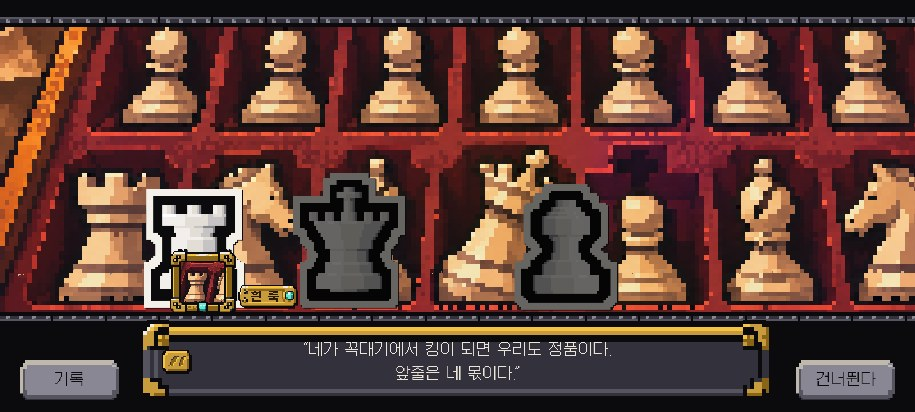
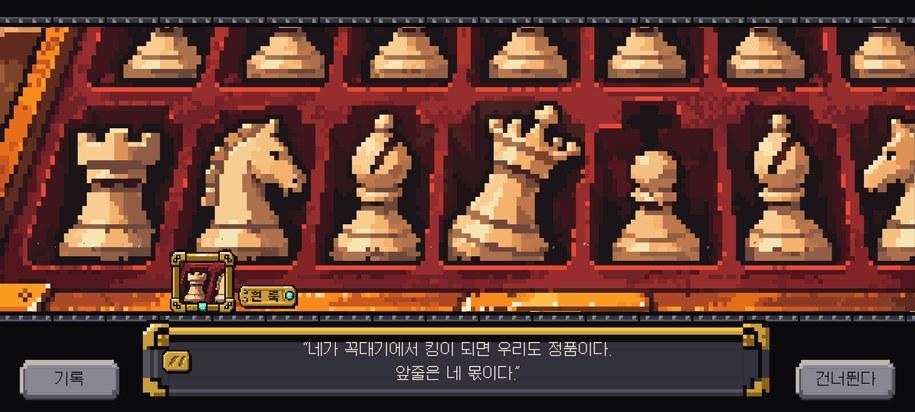
Stop VN board-sprite actors over illustrations (D-580)
D-572(일러스트에 판 도트 말을 붙이지 않는다)에 맞춰 컷신 VN 층이 그림 위에 세우던 72칸 판 도트 배우를 모두 걷었다.
배우가 서던 컷: 상자 안의 다툼(흰 퀸 · 아홉째 폰 · 흰 룩), 반장 격파 여섯, 도금왕 2단계, 용해 주조 · 뻗지 않은 손,
진엔딩 원했다 · 멈춘 공장 · 하얀 땅, 동료 장면(종이왕). 그림 안 인물을 한 번 더 세우던 문제가 사라진다.
- VN_DEFAULT.noCast = true, 컷별 noCast 표시 정리, data/vn.castOn(slug, art) — 그림이 있으면 늘 false.
- opening.playCuts는 castOn일 때만 배우를 연다(끝 정적 · 먹 무대 D-579 · 자리 그림은 막음). 지금 연 컷은 없다.
- 명패(이름 + 얼굴) · 대사 · 샷 · 효과 · 입자 · 등잔 · 켄 번스는 그대로 — 대사 줄은 모두 명패가 서서 화자가 보인다.
- 시험: 모든 컷 생성기의 그림 컷에서 배우가 서지 않음을 확인. 디버그 훅 companionCut 추가.
- 전/후 대조 시트 production/qa/evidence/2026-11-18-d580-cast-off-sheet.jpg, 그래픽 정본 vn-actor 사진 갈음, DECISIONS D-580.

Claude-Session: https://claude.ai/code/session_011jC4ZCDKW43H5FzLWnYVpe

diff --git a/src/slice/main.ts b/src/slice/main.ts
@@ -5550,4 +5550,4 @@ void warmup((k) => bootBar && bootBar.style.setProperty('--k', String(Math.floor
   if (newerSaveFound()) stateBand(SAFETY_TEXT.newerSave, 'toast', { ms: 6000 });
 });
 // 검수 손잡이 (?debug) — 출시 빌드에는 없다 (D-531)
-if (import.meta.env.MODE !== 'release' && devQuery('debug')) Object.assign(window as object, { slice: () => b, sliceApi: { cursor: () => boardCursorAt(), sel: () => ({ card: selCard, piece: selPiece }), setPick: () => setPick(), progress: () => readMeta(store), context: () => ({ mode: runMode, chapter: storyChapter, asc, runId, promise: storyPromise, beats: storyBeats }), campaign: (a: number, mode: RunMode = 'story') => { newRun(171 + a, a, null, mode); return 0; }, challengeEnd: (a = CHALLENGE_START) => { runMode = 'challenge'; asc = a; void endingFlow(); }, buildPick, buildTrial: startBuildTrial, movePeek, kitSheet, peekAt: (pos: Pos) => pieceInfo(pos), logPeek: () => logPeek(), stateBand: (t: string, k: 'toast' | 'brass' | 'crimson' = 'toast') => stateBand(t, k), coachNow: () => { coachOn = true; cur = INTRO[0]; refresh(); }, tutNow: () => void onboarding(), drill: (i: number) => startBattle(i < DRILLS.length ? DRILLS[i] : INTRO[0], true), tipNow: (k: 'battle' | 'act' = 'battle') => showTip(k), warnNow: async () => { endWarn(false); return onEnd(); }, revive: (n = 1) => (charms.revive = n), nemesisOf: () => nemesisMeet({ t: 'R', name: '녹슨 집행자', rank: 2, victims: ['먼지투성이', '구부러진 못'], heir: { t: 'N', name: '구부러진 못' } }), win: (size: 's' | 'm' | 'l' = 'm') => openWin({ size, title: '창 견본', head: '<span class="tag">꼬리표</span>', body: '<p>본문 15px 한 줄.</p><p class="note">보조 12px.</p>', back: { label: '닫는다', attrs: 'data-x' }, go: { label: '고른다' }, dismiss: closeWin }), ledger: () => ledgerView(closeWin), help: (t: 'now' | 'dict' = 'now') => help(t), settingsWin: (desk = false) => openSettings({ store, desktop: desk ? { toggleFullscreen: () => undefined, quitGame: () => undefined } : null }), bug: () => bugReport(), exportScr: () => exportScreen(closeWin), survey: (i = 0) => surveyScreen(i, {}, closeWin), promote: (a = 2) => { runMode = 'story'; storyChapter = Math.min(STORY_COUNT - 1, Math.max(0, a)) as StoryChapter; asc = storyChapter; runBosses = ['plate']; void promoteScreen(); }, guideMenu: () => void guide(openWin).then(closeWin), labPick: () => labPick(), begin: (s = 1, level = 0, mode: RunMode = 'story', day: string | null = null, set?: StartSetId) => begin(s, level, day, mode, set), endFlow: (a = 0, bosses: StoryBoss[] = ['plate', 'magnet', 'alarm']) => { runMode = 'story'; storyChapter = Math.min(STORY_COUNT - 1, Math.max(0, a)) as StoryChapter; asc = storyChapter; runBosses = bosses; void endingFlow(); }, pro: () => prologue(), vnCut: (slug: string) => playCuts(PROLOGUE.filter((c) => c.slug === slug)), credits: (count = 4, record = false) => { void creditsScene(Array.from({ length: count }, (_, i) => ({ t: (['P', 'N', 'B', 'R'] as PieceType[])[i % 4], name: `먼지투성이 ${i + 1}`, fallen: i % 2 === 1 })), '출하 14번째 · 2026-11-11', { record }); return 0; }, finalAt: (a = 13) => { asc = a; runBosses = ['inspect', 'magnet', 'thorns']; startBattle(FINAL_BOSS(a), true); }, phase2: (r?: StoryBoss) => { if (r) runBosses = [r]; void gildedPhase2(); return 0; }, fallCut: (r: StoryBoss) => { void bossFallCut(r); return 0; }, allFaces, defeat: () => runEnd(false), shadow: (a = 1) => playCuts(shadowCuts(a)), artScene: (img: string) => playCuts([{ img, bg: ['#0b0b0e', '#0b0b0e'], art: [], lines: [{ k: 'n', t: '장면 검수' }], cam: 'still' }]), meltNames: (n: string[]) => (meltedRun = n), replay: (code: string) => { const r = JSON.parse(decodeURIComponent(escape(atob(code)))) as { squad: Squad[]; deck: CommandId[]; parts: SlicePartId[]; refined: CommandId[]; asc: number; def: BattleDef; gold: number }; squad = r.squad; deck = r.deck; parts = r.parts; refined.splice(0, refined.length, ...r.refined); asc = r.asc; gold = r.gold; startBattle(r.def, true); return r.def.title; }, trueEnd: () => playCuts(trueEndingCuts(storyCompany().alive.map((u, k) => ({ t: u.t, side: 0 as const, x: 14 + k * 9, y: 56, h: 22 })), storyCompany()), { faces: crewFaces() }), endA: () => playCuts([ENDING_A]), promoCut: () => playCuts(promotionCuts(storyChapter, storyCompany().alive[0]?.name ?? '', ASCENSION[STORY_LAW[storyChapter]].law, BOSS_STORY.plate.mirror, storyCompany()), { faces: crewFaces() }), defeatCut: () => playCuts(DEFEAT_CUTS), bossOf: (rule: BossRule, act: 1 | 2 | 3 = 1) => startBattle(battleFor(act, 'boss', new Rng(7), 0, rule), true), bossIntroOf: (rule: BossRule, act: 1 | 2 | 3 = 1) => startBattle(battleFor(act, 'boss', new Rng(7), 0, rule)), final: () => startBattle(FINAL_BOSS(0)), finalForge: () => { forgeFinal = true; forgeScreen(); }, boardFx: (k: 'row' | 'thorns' | 'stamp') => renderer.debugFx(k), cardPieces, cardMoves, previewPlay, parts: (ids?: SlicePartId[]) => (ids ? (parts = ids) : parts), partPick: () => partPick(SCREEN_TEXT.part, () => showMap()), deckView: (m: 'view' | 'remove' = 'view') => deckView(m, () => showMap()), deckAdd: (ids: CommandId[]) => deck.push(...ids), refine: () => refineScreen(forgeScreen, () => showMap()), brace: () => braceScreen(), full: (ids?: SlicePartId[]) => { const all = Object.keys(SLICE_PARTS) as SlicePartId[]; parts = (ids ?? all).slice(0, partSlotsAt(actI)); gainPart(all.find((id) => !parts.includes(id))!, () => labMode ? closeOverlay() : showMap()); }, reward: () => { cur = { ...cur, reward: 'card' } as BattleDef; rewardFlow(40, 0, []); }, recruitAt: () => recruitPick(SCREEN_TEXT.newCrew, () => showMap(), '<span class="tag">나사 +40</span>'), screenOf: (pos: Pos) => renderer.screenOf(pos), boardTexts: () => renderer.debugTexts(), tallyHold: (ms = 4000) => renderer.debugSummaryHold(ms), lab: (m: 'A' | 'B') => startLab(m), sacSet: (n = 1) => (sacLeft = n), offerPeek: () => sacrificeOffer({ ...b, warned: true }, 1), stand: async () => { sacLeft = 1; clutchLeft = 1; await sacrificeAsk(true); return lastStand(true); }, taunt: (c: TauntCue) => { tauntedNow = false; tauntCount = 0; taunt(c, true); }, monoNow: (t: string) => mono(t), betSet: (k: BetKind = 'unhit') => { betNow = { kind: k, stake: 30, need: DIRECTOR.betKills[Math.min(2, actI)] }; betReached = false; refresh(); }, betBreak: () => { b.kingHit = true; refresh(); }, betReach: () => { b.bestTurnKills = 3; refresh(); }, betEnd: (won: boolean) => betResolve(won), resultFx: (k: string) => void debugResultFx(k), fxOnly: (k: ResultFxKind) => void debugFxOnly(k), apFx: () => apSources(2, (() => { const s0 = JSON.parse(JSON.stringify(b.s)) as typeof b.s; s0.pieces.push({ ...b.s.pieces.find((p) => p.side === 1 && p.type !== 'K')!, id: 999 }); return s0; })(), [], (b.refunded = (b.refunded ?? 0) + 1) - 1, 1), p2Warn: () => p2Warn(BOSS_PHASE_TEXT.low, gridRect()), p2Rise: async (r = 'plate') => { await p2Rise({ art: p2Art(r), word: r === 'gilded' ? '도금왕이 격노해 일어선다' : '반장이 격노해 일어선다' }); const p2 = (BOSS_STORY as Partial<Record<string, { phase2: string }>>)[r]?.phase2; if (p2) await foeStory(p2); }, allyBark: () => { const p = b.s.pieces.find((q) => q.side === 0 && q.type !== 'K'); if (p) bark({ at: () => barkAtPiece(p.id), side: 'ally', name: squad[b.squadIds.indexOf(p.id)]?.name ?? PIECE_NAMES_KO[p.type], face: pieceImg(p.type, 0, 'small', 40), text: CREW_BARK[p.type as CrewKind].kill[0], prio: 1, force: true }); }, foeBark: (cue: FoePieceCue = 'gloat', t?: PieceType) => { const p = b.s.pieces.find((q) => q.side === 1 && q.type !== 'K' && (!t || q.type === t)); if (p) bark({ at: () => barkAtPiece(p.id), side: 'foe', name: `적 ${PIECE_NAMES_KO[p.type]}`, face: foePieceFace(p), text: FOE_PIECE_BARK[p.type as CrewKind][cue][0], prio: 1, force: true }); }, bet: () => { gold = 60; maybeBet(cur, true); }, finish: () => finish(), meet: () => { const n = nemeses()[0]; if (n) nemesisMeet(n); }, startLive: (act: 1 | 2 | 3) => startBattle(battleFor(act, 'battle', new Rng(act * 7))), intro: (act: 1 | 2 | 3, kind: 'battle' | 'check' | 'boss') => startBattle(battleFor(act, kind, new Rng(act * 7))), redraw: () => { renderer.setup(b.s); refresh(); }, startAt: (act: 1 | 2 | 3, kind: 'battle' | 'check' | 'boss') => startBattle(battleFor(act, kind, new Rng(act * 7)), true), /** 전수 점검(tools/qa/sweep.cjs): 같은 판 정의에 이형 · 거대 주물 · 공정 판만 덧대어 연다 — 판 정의를 고칠 뿐, 대국은 늘 startBattle이 세운다 */ battleWith: (act: 1 | 2 | 3, kind: 'battle' | 'check' | 'boss', patch: Partial<BattleDef> = {}) => startBattle({ ...battleFor(act, kind, new Rng(act * 7)), ...patch }, true), tap: (pos: Pos) => onTap(pos), start: (i: number) => startBattle(i < 1 ? INTRO[i] : battleFor(1, i >= 4 ? 'boss' : i === 3 ? 'check' : 'battle', new Rng(i))), map: (r = 2) => { rowI = r; showMap(); }, shop: () => shopScreen(), eventIds: SLICE_EVENT_IDS, event: (id: string) => eventScreen(id as never), seed: (n: number) => (R = new Rng(n)), hurt: (k = 0.6) => squad.forEach((u) => (u.hp = Math.round(crewMaxHp(u) * k))), forge: () => forgeScreen(), say: (t: PieceType) => crewSay(t, '먼지투성이'), kit: () => kitPick(SCREEN_TEXT.kit, () => showMap()), recruit: () => recruitPick(SCREEN_TEXT.recruit, () => showMap()), forceRecruit: () => (debugRecruit = true), enter: (k: string) => enterNode({ kind: k } as MapNode), crack: (i: number) => { squad[i] = { ...squad[i], cracked: true }; }, crew: () => crewView(), squad: () => squad, nextAct: () => { rowI = acts[actI].rows.length - 1; advance(); }, act: (i: number) => { actI = i; rowI = 1; showMap(); }, setAct: (i: number) => (actI = i), lastRow: () => (rowI = acts[actI].rows.length - 1), botMove: async (style: 'naive' | 'greedy' = 'greedy') => { if (busy || b.s.winner !== null) return 'busy'; const m = bestAction(b, style); if (!m) { await onEnd(); if ($('btn-end').classList.contains('warn')) await onEnd(); return 'end'; } const c = COMMANDS[b.hand[m.i]]; if (m.pieceId === undefined) { pickCard(m.i); return c.name; } await run(m.i, m.pieceId, m.to); return c.name; }, gold: (n: number) => (gold = n), doom: () => { const k = b.s.pieces.find((p) => p.side === 0 && p.type === 'K')!; const sq = dangerSquares(b).find((d) => !b.s.pieces.some((p) => p.x === d.x && p.y === d.y)); if (sq) Object.assign(k, { x: sq.x, y: sq.y }); k.hp = 1; k.shield = 0; b.rewinds = Math.max(1, b.rewinds); b.snap = JSON.stringify({ ...b, snap: '' }); renderer.setup(b.s); refresh(); return !!sq; }, end: (c: boolean) => runEnd(c), endNow: (c: boolean) => runEndNow(c), richRun: () => { if (squad.length < 5) squad.push(crewOf('B'), crewOf('R')); won = 14; gold = 212; deck.push(...(Object.keys(COMMANDS) as CommandId[]).filter((id) => !/[+~]$/.test(id)).slice(0, 10)); runBosses = ['plate', 'magnet', 'alarm']; parts = (Object.keys(SLICE_PARTS) as SlicePartId[]).slice(0, 3); const ks = [12, 7, 5, 9, 3], ds = [340, 188, 152, 260, 71]; squad.filter((u) => u.t !== 'K').forEach((u, i) => { u.kills = ks[i % 5]; u.dmg = ds[i % 5]; u.battles = 14; }); actSnap = { won: 9, kills: 20, gold: 140, deck: deck.length - 4, kb: Object.fromEntries(squad.map((u, i) => [u.serial ?? '', Math.max(0, (u.kills ?? 0) - [3, 6, 2, 4, 1][i % 5])])), db: {} }; return squad.length; }, die: () => { b.falls.push({ ...(b.falls[0] ?? {}), pieceId: b.squadIds[1], turn: b.turn, by: '적 룩' } as never); return deathRites(); } } });
+if (import.meta.env.MODE !== 'release' && devQuery('debug')) Object.assign(window as object, { slice: () => b, sliceApi: { cursor: () => boardCursorAt(), sel: () => ({ card: selCard, piece: selPiece }), setPick: () => setPick(), progress: () => readMeta(store), context: () => ({ mode: runMode, chapter: storyChapter, asc, runId, promise: storyPromise, beats: storyBeats }), campaign: (a: number, mode: RunMode = 'story') => { newRun(171 + a, a, null, mode); return 0; }, challengeEnd: (a = CHALLENGE_START) => { runMode = 'challenge'; asc = a; void endingFlow(); }, buildPick, buildTrial: startBuildTrial, movePeek, kitSheet, peekAt: (pos: Pos) => pieceInfo(pos), logPeek: () => logPeek(), stateBand: (t: string, k: 'toast' | 'brass' | 'crimson' = 'toast') => stateBand(t, k), coachNow: () => { coachOn = true; cur = INTRO[0]; refresh(); }, tutNow: () => void onboarding(), drill: (i: number) => startBattle(i < DRILLS.length ? DRILLS[i] : INTRO[0], true), tipNow: (k: 'battle' | 'act' = 'battle') => showTip(k), warnNow: async () => { endWarn(false); return onEnd(); }, revive: (n = 1) => (charms.revive = n), nemesisOf: () => nemesisMeet({ t: 'R', name: '녹슨 집행자', rank: 2, victims: ['먼지투성이', '구부러진 못'], heir: { t: 'N', name: '구부러진 못' } }), win: (size: 's' | 'm' | 'l' = 'm') => openWin({ size, title: '창 견본', head: '<span class="tag">꼬리표</span>', body: '<p>본문 15px 한 줄.</p><p class="note">보조 12px.</p>', back: { label: '닫는다', attrs: 'data-x' }, go: { label: '고른다' }, dismiss: closeWin }), ledger: () => ledgerView(closeWin), help: (t: 'now' | 'dict' = 'now') => help(t), settingsWin: (desk = false) => openSettings({ store, desktop: desk ? { toggleFullscreen: () => undefined, quitGame: () => undefined } : null }), bug: () => bugReport(), exportScr: () => exportScreen(closeWin), survey: (i = 0) => surveyScreen(i, {}, closeWin), promote: (a = 2) => { runMode = 'story'; storyChapter = Math.min(STORY_COUNT - 1, Math.max(0, a)) as StoryChapter; asc = storyChapter; runBosses = ['plate']; void promoteScreen(); }, guideMenu: () => void guide(openWin).then(closeWin), labPick: () => labPick(), begin: (s = 1, level = 0, mode: RunMode = 'story', day: string | null = null, set?: StartSetId) => begin(s, level, day, mode, set), endFlow: (a = 0, bosses: StoryBoss[] = ['plate', 'magnet', 'alarm']) => { runMode = 'story'; storyChapter = Math.min(STORY_COUNT - 1, Math.max(0, a)) as StoryChapter; asc = storyChapter; runBosses = bosses; void endingFlow(); }, pro: () => prologue(), vnCut: (slug: string) => playCuts(PROLOGUE.filter((c) => c.slug === slug)), companionCut: (act = 0) => playCuts(companionScene(act, storyCompany().alive, undefined, storyChapter).cuts), credits: (count = 4, record = false) => { void creditsScene(Array.from({ length: count }, (_, i) => ({ t: (['P', 'N', 'B', 'R'] as PieceType[])[i % 4], name: `먼지투성이 ${i + 1}`, fallen: i % 2 === 1 })), '출하 14번째 · 2026-11-11', { record }); return 0; }, finalAt: (a = 13) => { asc = a; runBosses = ['inspect', 'magnet', 'thorns']; startBattle(FINAL_BOSS(a), true); }, phase2: (r?: StoryBoss) => { if (r) runBosses = [r]; void gildedPhase2(); return 0; }, fallCut: (r: StoryBoss) => { void bossFallCut(r); return 0; }, allFaces, defeat: () => runEnd(false), shadow: (a = 1) => playCuts(shadowCuts(a)), artScene: (img: string) => playCuts([{ img, bg: ['#0b0b0e', '#0b0b0e'], art: [], lines: [{ k: 'n', t: '장면 검수' }], cam: 'still' }]), meltNames: (n: string[]) => (meltedRun = n), replay: (code: string) => { const r = JSON.parse(decodeURIComponent(escape(atob(code)))) as { squad: Squad[]; deck: CommandId[]; parts: SlicePartId[]; refined: CommandId[]; asc: number; def: BattleDef; gold: number }; squad = r.squad; deck = r.deck; parts = r.parts; refined.splice(0, refined.length, ...r.refined); asc = r.asc; gold = r.gold; startBattle(r.def, true); return r.def.title; }, trueEnd: () => playCuts(trueEndingCuts(storyCompany().alive.map((u, k) => ({ t: u.t, side: 0 as const, x: 14 + k * 9, y: 56, h: 22 })), storyCompany()), { faces: crewFaces() }), endA: () => playCuts([ENDING_A]), promoCut: () => playCuts(promotionCuts(storyChapter, storyCompany().alive[0]?.name ?? '', ASCENSION[STORY_LAW[storyChapter]].law, BOSS_STORY.plate.mirror, storyCompany()), { faces: crewFaces() }), defeatCut: () => playCuts(DEFEAT_CUTS), bossOf: (rule: BossRule, act: 1 | 2 | 3 = 1) => startBattle(battleFor(act, 'boss', new Rng(7), 0, rule), true), bossIntroOf: (rule: BossRule, act: 1 | 2 | 3 = 1) => startBattle(battleFor(act, 'boss', new Rng(7), 0, rule)), final: () => startBattle(FINAL_BOSS(0)), finalForge: () => { forgeFinal = true; forgeScreen(); }, boardFx: (k: 'row' | 'thorns' | 'stamp') => renderer.debugFx(k), cardPieces, cardMoves, previewPlay, parts: (ids?: SlicePartId[]) => (ids ? (parts = ids) : parts), partPick: () => partPick(SCREEN_TEXT.part, () => showMap()), deckView: (m: 'view' | 'remove' = 'view') => deckView(m, () => showMap()), deckAdd: (ids: CommandId[]) => deck.push(...ids), refine: () => refineScreen(forgeScreen, () => showMap()), brace: () => braceScreen(), full: (ids?: SlicePartId[]) => { const all = Object.keys(SLICE_PARTS) as SlicePartId[]; parts = (ids ?? all).slice(0, partSlotsAt(actI)); gainPart(all.find((id) => !parts.includes(id))!, () => labMode ? closeOverlay() : showMap()); }, reward: () => { cur = { ...cur, reward: 'card' } as BattleDef; rewardFlow(40, 0, []); }, recruitAt: () => recruitPick(SCREEN_TEXT.newCrew, () => showMap(), '<span class="tag">나사 +40</span>'), screenOf: (pos: Pos) => renderer.screenOf(pos), boardTexts: () => renderer.debugTexts(), tallyHold: (ms = 4000) => renderer.debugSummaryHold(ms), lab: (m: 'A' | 'B') => startLab(m), sacSet: (n = 1) => (sacLeft = n), offerPeek: () => sacrificeOffer({ ...b, warned: true }, 1), stand: async () => { sacLeft = 1; clutchLeft = 1; await sacrificeAsk(true); return lastStand(true); }, taunt: (c: TauntCue) => { tauntedNow = false; tauntCount = 0; taunt(c, true); }, monoNow: (t: string) => mono(t), betSet: (k: BetKind = 'unhit') => { betNow = { kind: k, stake: 30, need: DIRECTOR.betKills[Math.min(2, actI)] }; betReached = false; refresh(); }, betBreak: () => { b.kingHit = true; refresh(); }, betReach: () => { b.bestTurnKills = 3; refresh(); }, betEnd: (won: boolean) => betResolve(won), resultFx: (k: string) => void debugResultFx(k), fxOnly: (k: ResultFxKind) => void debugFxOnly(k), apFx: () => apSources(2, (() => { const s0 = JSON.parse(JSON.stringify(b.s)) as typeof b.s; s0.pieces.push({ ...b.s.pieces.find((p) => p.side === 1 && p.type !== 'K')!, id: 999 }); return s0; })(), [], (b.refunded = (b.refunded ?? 0) + 1) - 1, 1), p2Warn: () => p2Warn(BOSS_PHASE_TEXT.low, gridRect()), p2Rise: async (r = 'plate') => { await p2Rise({ art: p2Art(r), word: r === 'gilded' ? '도금왕이 격노해 일어선다' : '반장이 격노해 일어선다' }); const p2 = (BOSS_STORY as Partial<Record<string, { phase2: string }>>)[r]?.phase2; if (p2) await foeStory(p2); }, allyBark: () => { const p = b.s.pieces.find((q) => q.side === 0 && q.type !== 'K'); if (p) bark({ at: () => barkAtPiece(p.id), side: 'ally', name: squad[b.squadIds.indexOf(p.id)]?.name ?? PIECE_NAMES_KO[p.type], face: pieceImg(p.type, 0, 'small', 40), text: CREW_BARK[p.type as CrewKind].kill[0], prio: 1, force: true }); }, foeBark: (cue: FoePieceCue = 'gloat', t?: PieceType) => { const p = b.s.pieces.find((q) => q.side === 1 && q.type !== 'K' && (!t || q.type === t)); if (p) bark({ at: () => barkAtPiece(p.id), side: 'foe', name: `적 ${PIECE_NAMES_KO[p.type]}`, face: foePieceFace(p), text: FOE_PIECE_BARK[p.type as CrewKind][cue][0], prio: 1, force: true }); }, bet: () => { gold = 60; maybeBet(cur, true); }, finish: () => finish(), meet: () => { const n = nemeses()[0]; if (n) nemesisMeet(n); }, startLive: (act: 1 | 2 | 3) => startBattle(battleFor(act, 'battle', new Rng(act * 7))), intro: (act: 1 | 2 | 3, kind: 'battle' | 'check' | 'boss') => startBattle(battleFor(act, kind, new Rng(act * 7))), redraw: () => { renderer.setup(b.s); refresh(); }, startAt: (act: 1 | 2 | 3, kind: 'battle' | 'check' | 'boss') => startBattle(battleFor(act, kind, new Rng(act * 7)), true), /** 전수 점검(tools/qa/sweep.cjs): 같은 판 정의에 이형 · 거대 주물 · 공정 판만 덧대어 연다 — 판 정의를 고칠 뿐, 대국은 늘 startBattle이 세운다 */ battleWith: (act: 1 | 2 | 3, kind: 'battle' | 'check' | 'boss', patch: Partial<BattleDef> = {}) => startBattle({ ...battleFor(act, kind, new Rng(act * 7)), ...patch }, true), tap: (pos: Pos) => onTap(pos), start: (i: number) => startBattle(i < 1 ? INTRO[i] : battleFor(1, i >= 4 ? 'boss' : i === 3 ? 'check' : 'battle', new Rng(i))), map: (r = 2) => { rowI = r; showMap(); }, shop: () => shopScreen(), eventIds: SLICE_EVENT_IDS, event: (id: string) => eventScreen(id as never), seed: (n: number) => (R = new Rng(n)), hurt: (k = 0.6) => squad.forEach((u) => (u.hp = Math.round(crewMaxHp(u) * k))), forge: () => forgeScreen(), say: (t: PieceType) => crewSay(t, '먼지투성이'), kit: () => kitPick(SCREEN_TEXT.kit, () => showMap()), recruit: () => recruitPick(SCREEN_TEXT.recruit, () => showMap()), forceRecruit: () => (debugRecruit = true), enter: (k: string) => enterNode({ kind: k } as MapNode), crack: (i: number) => { squad[i] = { ...squad[i], cracked: true }; }, crew: () => crewView(), squad: () => squad, nextAct: () => { rowI = acts[actI].rows.length - 1; advance(); }, act: (i: number) => { actI = i; rowI = 1; showMap(); }, setAct: (i: number) => (actI = i), lastRow: () => (rowI = acts[actI].rows.length - 1), botMove: async (style: 'naive' | 'greedy' = 'greedy') => { if (busy || b.s.winner !== null) return 'busy'; const m = bestAction(b, style); if (!m) { await onEnd(); if ($('btn-end').classList.contains('warn')) await onEnd(); return 'end'; } const c = COMMANDS[b.hand[m.i]]; if (m.pieceId === undefined) { pickCard(m.i); return c.name; } await run(m.i, m.pieceId, m.to); return c.name; }, gold: (n: number) => (gold = n), doom: () => { const k = b.s.pieces.find((p) => p.side === 0 && p.type === 'K')!; const sq = dangerSquares(b).find((d) => !b.s.pieces.some((p) => p.x === d.x && p.y === d.y)); if (sq) Object.assign(k, { x: sq.x, y: sq.y }); k.hp = 1; k.shield = 0; b.rewinds = Math.max(1, b.rewinds); b.snap = JSON.stringify({ ...b, snap: '' }); renderer.setup(b.s); refresh(); return !!sq; }, end: (c: boolean) => runEnd(c), endNow: (c: boolean) => runEndNow(c), richRun: () => { if (squad.length < 5) squad.push(crewOf('B'), crewOf('R')); won = 14; gold = 212; deck.push(...(Object.keys(COMMANDS) as CommandId[]).filter((id) => !/[+~]$/.test(id)).slice(0, 10)); runBosses = ['plate', 'magnet', 'alarm']; parts = (Object.keys(SLICE_PARTS) as SlicePartId[]).slice(0, 3); const ks = [12, 7, 5, 9, 3], ds = [340, 188, 152, 260, 71]; squad.filter((u) => u.t !== 'K').forEach((u, i) => { u.kills = ks[i % 5]; u.dmg = ds[i % 5]; u.battles = 14; }); actSnap = { won: 9, kills: 20, gold: 140, deck: deck.length - 4, kb: Object.fromEntries(squad.map((u, i) => [u.serial ?? '', Math.max(0, (u.kills ?? 0) - [3, 6, 2, 4, 1][i % 5])])), db: {} }; return squad.length; }, die: () => { b.falls.push({ ...(b.falls[0] ?? {}), pieceId: b.squadIds[1], turn: b.turn, by: '적 룩' } as never); return deathRites(); } } });

diff --git a/src/data/vn.ts b/src/data/vn.ts
@@ -1,7 +1,9 @@
 /**
  * 비주얼 노벨 연출 층 (D-554, 소유자: 「장면 · 대사를 비주얼 노벨처럼 — 그림이 너무 정적이다」). 새 그림 없이(D-386)
- * 이미 있는 장면 그림 · 기물 도트(public/pieces) · 화면 부품만 쓴다. 이 파일은 데이터만 — 재생은 slice/vn.ts · opening.playCuts.
- *  - 서 있는 배우: 말하는 기물의 72칸 도트가 정수배로 서고(감속 곡선 · 정수 기기 픽셀), 1도트 숨 고르기, 말하지 않는 배우는 50% 디더 그늘.
+ * 이미 있는 장면 그림 · 화면 부품만 쓴다. 이 파일은 데이터만 — 재생은 slice/vn.ts · opening.playCuts.
+ *  - 서 있는 배우 (D-580 — D-572 「일러스트에 판 도트 말을 붙이지 않는다」): 그림이 있는 컷에는 절대 세우지 않는다 — 인물은 그림이 그림 화풍대로
+ *    이미 그려 왔다. 화자는 명패(이름 · 그림에서 오린 얼굴)로 드러난다. 배우 길(72칸 도트 정수배 · 디더 그늘)은 그림 없는 컷이 VN_SCENE에서
+ *    noCast: false로 따로 열 때만 남는다 — 지금 연 컷은 없다(먹 무대 D-579도 도트 말 없이 추상으로).
  *  - 장면 분위기: 컷(slug)마다 입자(증기 · 불똥 · 먼지 · 재) · 등잔 깜빡 · 켄 번스 방향 · 원근(입자 층이 카메라보다 빨리 흐름).
  *  - 줄 단위: script.ts의 Line.shot(카메라) · fx(흔들림 · 번쩍 · 경보)는 그대로, 여기서 더하는 것은 줄 번호별 덧연출(stage).
  * 종이왕은 K0 정본 도트만 (D-424 — 폰 + 옛 왕관 합성 금지).
@@ -12,7 +14,7 @@ import type { PieceType } from '../engine';
 export interface CastSprite { t: PieceType; side: 0 | 1 }
 
 /**
- * 화자 → 서 있는 도트. 여기 없는 이름은 컷신 faces(출하 분대원 { t, side })에서 찾고, 그래도 없으면 배우를 세우지 않는다(명패만).
+ * 화자 → 서 있는 도트 (그림 없는 컷이 배우를 열 때만 — castOn). 여기 없는 이름은 컷신 faces(출하 분대원 { t, side })에서 찾고, 그래도 없으면 배우를 세우지 않는다(명패만).
  * 아홉째 폰은 종이 왕관을 접기 전이라 맨 폰(P0), 그 뒤는 종이왕(K0 정본). 반장 · 도금왕은 검은 세트의 킹 도트.
  */
 export const VN_CAST: Record<string, CastSprite> = {
@@ -36,7 +38,7 @@ export interface VnScene {
   lamp?: boolean;
   /** 켄 번스 방향 (초점 변화 부호, 생략하면 여유가 큰 쪽) */
   drift?: { x: number; y: number };
-  /** 배우를 세우지 않는 컷 (인물이 그림 안에 크게 그려진 컷 — 겹쳐 보이지 않게) */
+  /** 배우를 세우지 않는다 — 기본(VN_DEFAULT)이 true (D-580). false = 그림 없는 컷에서만 배우를 연다 (그림이 있으면 무시 — castOn) */
   noCast?: boolean;
 }
 
@@ -51,10 +53,9 @@ export const VN_SCENE: Record<string, VnScene> = {
   '잘못 놓인 아홉 번째 폰': { air: 'dust' },
   '불량 딱지': { air: 'sparks', lamp: true },
   '금단의 소문': { air: 'dust', drift: { x: 0, y: -1 } },
-  '상자 안의 다툼': { air: 'dust', lamp: true, noCast: false },
-  // D-578: VA-04 · VA-05 재발주본은 종이왕 · 박차를 그림 안에 크게 그려 왔다 — 판 도트 배우를 겹쳐 세우지 않는다(D-572)
-  '종이 왕관': { air: 'dust', noCast: true },
-  '부관 박차': { air: 'steam', noCast: true },
+  '상자 안의 다툼': { air: 'dust', lamp: true },
+  '종이 왕관': { air: 'dust' },
+  '부관 박차': { air: 'steam' },
   '검은 세트와 먼 왕좌': { air: 'steam', drift: { x: 0, y: -1 } },
   '용해 주조': { air: 'embers' },
   '금빛 거푸집': { air: 'embers', lamp: true },
@@ -67,7 +68,12 @@ export const VN_SCENE: Record<string, VnScene> = {
   '하얀 땅': { air: 'ash' },
   '첫걸음': { air: 'dust', drift: { x: 1, y: 0 } },
 };
-export const VN_DEFAULT: VnScene = { air: 'dust' };
+export const VN_DEFAULT: VnScene = { air: 'dust', noCast: true };
+/**
+ * 이 컷에 배우를 세우는가 (D-580 · D-572): 그림이 있으면 절대 아니다 — 판 도트 말을 일러스트 위에 겹치지 않는다.
+ * 그림이 없어도 VN_SCENE이 noCast: false로 연 컷만 (끝 정적 · 먹 무대 · 자리 그림은 부르는 쪽이 따로 막는다).
+ */
+export const castOn = (slug: string | undefined, art: boolean): boolean => !art && (slug ? VN_SCENE[slug]?.noCast === false : false);
 
 /** 서 있는 배우 수치 (기기 픽셀 · ms) */
 export const VN_ACTOR = {

diff --git a/tests/motion.test.ts b/tests/motion.test.ts
@@ -1,8 +1,9 @@
 import { describe, expect, it } from 'vitest';
 import { bayer8, ditherLevel, ditherSvg, ease, snapDev } from '../src/view/motion';
 import { SMOOTH } from '../src/data/motion';
-import { castOf, VN_SCENE } from '../src/data/vn';
-import { PROLOGUE } from '../src/data/script';
+import { castOf, castOn, VN_DEFAULT, VN_SCENE } from '../src/data/vn';
+import { BOSS_STORY, DEFEAT_CUTS, ENDING_A, PROLOGUE, PROLOGUE_FIELD, bossFallCut, gildedPhase2Cut, promotionCuts, shadowCuts, trueEndingCuts, type Cut, type StoryBoss } from '../src/data/script';
+import { companionScene } from '../src/data/companion-scenes';
 
 /**
  * 매끈한 도트 움직임 (D-554): 디더는 8×8 베이어 64단 · 곡선은 예비 → 터짐 → 출렁 · 위치는 기기 픽셀 정수 ·
@@ -70,6 +71,22 @@ describe('비주얼 노벨 층 데이터 (D-554)', () => {
     expect(castOf('종이왕')).toEqual({ t: 'K', side: 0 });
     expect(castOf('철갑 반장')).toEqual({ t: 'K', side: 1 });
     expect(castOf('없는 이름')).toBeUndefined();
+  });
+  it('그림이 있는 컷에는 배우(판 도트 말)를 세우지 않는다 (D-580 · D-572)', () => {
+    expect(VN_DEFAULT.noCast).toBe(true);
+    const company = { alive: [{ name: '먼지투성이', t: 'N' as const }, { name: '구부러진 못', t: 'B' as const }], promised: { name: '먼지투성이', alive: true } };
+    const all: Cut[] = [
+      ...PROLOGUE, PROLOGUE_FIELD, ...DEFEAT_CUTS, ENDING_A, ...trueEndingCuts([], company),
+      ...[0, 1, 2, 3].flatMap((ch) => [...shadowCuts(ch, '법'), ...shadowCuts(ch, '법', true), ...promotionCuts(ch, '먼지투성이', '법', '거울', company)]),
+      ...(Object.keys(BOSS_STORY) as StoryBoss[]).map((r) => bossFallCut(r, `boss-fall-${r}`, 1, 0)), gildedPhase2Cut('boss-gilded', 0, 'plate'),
+      ...[0, 1, 2].flatMap((a) => companionScene(a, [{ name: '먼지투성이', t: 'P', serial: 'A1' }] as never).cuts),
+    ];
+    // 이전에 배우가 섰던 컷(상자 안의 다툼 · 반장 격파 · 도금왕 2단계 · 용해 주조 · 진엔딩 · 동료 장면)을 모두 덮는다
+    expect(all.filter((c) => c.lines.some((l) => l.k === 's' && castOf(l.who)) && c.img).length).toBeGreaterThan(8);
+    for (const c of all) if (c.img) expect.soft(castOn(c.slug, true), c.slug ?? c.img).toBe(false);
+    // 그림 없는 컷도 연 곳이 없다 — 먹 무대(D-579)는 추상으로
+    for (const [slug, sc] of Object.entries(VN_SCENE)) expect.soft(sc.noCast, slug).not.toBe(false);
+    for (const c of PROLOGUE) expect.soft(castOn(c.slug, false), c.slug).toBe(false);
   });
   it('분위기 표의 컷 이름은 실제 컷에 있다 (프롤로그 컷은 모두 짝이 있다)', () => {
     for (const c of PROLOGUE) if (c.slug) expect.soft(VN_SCENE[c.slug], c.slug).toBeDefined();

diff --git a/src/slice/opening.ts b/src/slice/opening.ts
@@ -13,7 +13,7 @@ import { flashScreen, pxOut, replay, shake, typeIn } from './fx3';
 import { Camera, FILM, plateHtml, showTitle, Wipe } from './film';
 import { logHtml, VnStage, type PlateBox } from './vn';
 import { DarkStage } from './darkcut';
-import { castOf, VN_TEXT } from '../data/vn';
+import { castOf, castOn, VN_TEXT } from '../data/vn';
 import { ditherTo, ease } from '../view/motion';
 import { PAPER_FACE } from '../data/portraits';
 
@@ -209,7 +209,7 @@ export const playCuts = (cuts: Cut[], o: { logo?: boolean; before?: () => unknow
       else if (l.fx === 'red') { if (!calm()) { replay(el, 'red-once'); window.setTimeout(() => el.classList.remove('red-once'), 640); } shake(view, 1); }
       else if (l.fx === 'gold') stage.classList.add('fx-gold');
     };
-    /** 서 있는 배우 (D-554): 대사 = 그 화자를 세우고 밝힌다 · 서술 = 모두 그늘 · 독백 = 종이왕만 밝게 */
+    /** 서 있는 배우 (D-554 · 배우를 연 그림 없는 컷만 — D-580): 대사 = 그 화자를 세우고 밝힌다 · 서술 = 모두 그늘 · 독백 = 종이왕만 밝게 */
     const cast = (l: CutLine & Partial<Line>): void => {
       if (l.k === 's' && l.who) {
         const f = faces[l.who];
@@ -259,9 +259,10 @@ export const playCuts = (cuts: Cut[], o: { logo?: boolean; before?: () => unknow
         shown = pg.c;
         await mount(c);
         if (my !== token) return;
-        // 무대 분위기 (막이 닫힌 사이): 그림이 없거나(자리 그림 · 끝 정적) 실제 배우를 겹친 컷은 배우를 세우지 않는다
+        // 무대 분위기 (막이 닫힌 사이): 그림이 있는 컷은 배우를 세우지 않는다(D-580 · D-572 — 인물은 그림 안에 이미 있다).
+        // 그림 없는 컷도 끝 정적 · 먹 무대(D-579) · 자리 그림 · 실제 배우를 겹친 컷은 아니고, VN_SCENE이 따로 연 컷만(castOn)
         cutLines = c.lines as (CutLine & Partial<Line>)[];
-        scene = vn.enter(c.slug, { noCast: !!c.coda || !!c.showActors || !stage.querySelector('img[data-film]') });
+        scene = vn.enter(c.slug, { noCast: !!c.coda || !!c.dark || !!c.showActors || !castOn(c.slug, !!stage.querySelector('img[data-film]')) });
         if (c.title) { wipe.full('#0b0b0e'); await showTitle(over, c.title, tapped()); if (my !== token) return; }
         if (c.coda) wipe.color = c.coda === 'white' ? '#f1ede4' : '#0b0b0e';
         // 3 · 막 걷기 — 컷의 효과 소리

diff --git a/src/slice/vn.ts b/src/slice/vn.ts
@@ -1,7 +1,8 @@
 /**
  * 비주얼 노벨 연출 층 (D-554): 컷신 재생기(opening.playCuts)의 장면 칸 위에 서 있는 배우 · 장면 입자 · 등잔 깜빡 · 대사 기록.
  * 새 그림 없이(D-386) 기물 도트(public/pieces) · 장면 그림 · 키트 창만 쓴다. 데이터는 data/vn.ts.
- *  - 배우: 72칸 도트의 정수배(그림 1도트 = 기기 픽셀 정수), 들어옴 · 나감 = 감속 곡선 + 64단 디더, 위치는 기기 픽셀 정수.
+ *  - 배우는 그림이 있는 컷에 서지 않는다 (D-580 · D-572 — 일러스트에 판 도트 말을 겹치지 않는다, data/vn.castOn). 그림 위 무대는 입자 · 등잔 · 켄 번스 · 명패만.
+ *  - 배우 (그림 없는 컷이 연 때만): 72칸 도트의 정수배(그림 1도트 = 기기 픽셀 정수), 들어옴 · 나감 = 감속 곡선 + 64단 디더, 위치는 기기 픽셀 정수.
  *    말하는 배우는 밝게 + 1도트 뜀, 나머지는 50% 디더 그늘(투명도 아님). 놀 때는 1도트 숨 고르기(일부러 정지 동작).
  *  - 입자: 장면 도트(3 기기 픽셀) 낮은 해상도 캔버스 — 컷이 서 있는 동안만 프레임마다, 켄 번스보다 1.6배 흘러 원근이 생긴다.
  * 게임 상태는 건드리지 않는다 (UI 원칙 9). 움직임 줄이기면 배우는 바로 서고 입자 · 깜빡은 없다.
@@ -83,7 +84,8 @@ export class VnStage {
   /** 컷이 바뀔 때 (막이 닫힌 뒤): 배우를 걷고 그 컷의 분위기를 건다 */
   enter(slug: string | undefined, o: { noCast?: boolean } = {}): VnScene {
     this.clearCast();
-    this.scene = { ...VN_DEFAULT, ...(slug ? VN_SCENE[slug] : {}), ...(o.noCast ? { noCast: true } : {}) };
+    // 배우는 기본으로 없다 (VN_DEFAULT.noCast · D-580) — 부르는 쪽이 noCast: false를 넘길 때만(그림 없는 컷 · castOn)
+    this.scene = { ...VN_DEFAULT, ...(slug ? VN_SCENE[slug] : {}), noCast: o.noCast ?? true };
     this.air = this.scene.air ?? 'none';
     this.motes = [];
     this.pan0 = null;

diff --git a/tools/artguide/build.py b/tools/artguide/build.py
@@ -180,7 +180,7 @@ UI_AUDIT = [
     ('ev-fx-chest.jpg', '사건 결과 FX (D-398) — 지갑에서 나사가 쏟아지고 「나사 -100」 · 부품 상자가 덜컹 → 뚜껑 계단 열림 · 금빛 + 「부품」'),
     ('ev-fx-edge.jpg', '결과 장면 바탕 (D-398) — 사건 그림 네 변이 24도트 Bayer 먹 점으로 녹는다(반투명 · 그라데이션 없음)'),
     ('cut-prologue.jpg', '컷신 크롬 하나 (D-397) — 그림이 화면을 채우고 아래 자막 띠(UI-08 띠 끝 장식) 줄 둘 · ▼는 띠 안 오른쪽 끝 · 「건너뛴다」 철 단추 아래 오른쪽'),
-    ('vn-actor.jpg', '비주얼 노벨 층 (D-554) — 말하는 기물 도트가 정수배로 서고(감속 + 64단 디더 등장) 1도트 숨 고르기 · 말하지 않는 배우는 50% 디더 그늘 · 장면 입자 · 「기록」은 건너뛴다의 거울 자리'),
+    ('vn-actor.jpg', '비주얼 노벨 층 (D-554 → D-580) — 그림 위에는 판 도트 배우를 세우지 않는다(D-572): 화자는 명패(이름 + 그림에서 오린 얼굴)로, 장면은 입자 · 등잔 깜빡 · 켄 번스로 살아 있다 · 「기록」은 건너뛴다의 거울 자리'),
     ('vn-log.jpg', '대사 기록 (D-554) — M 창 · 마지막 여섯 줄 · 75% 먹 디더 막 · 닫는다 / 뒤 막 / Esc'),
     ('cut-logo.jpg', '프롤로그 끝 로고 — 「화면을 눌러 출하」도 같은 띠'),
     ('cut-boss.jpg', '반장 등장 — 이름 36 · 칭호 24 · 규칙은 움푹 칸 · 서술 + 대사는 자막 띠 (D-397)'),
